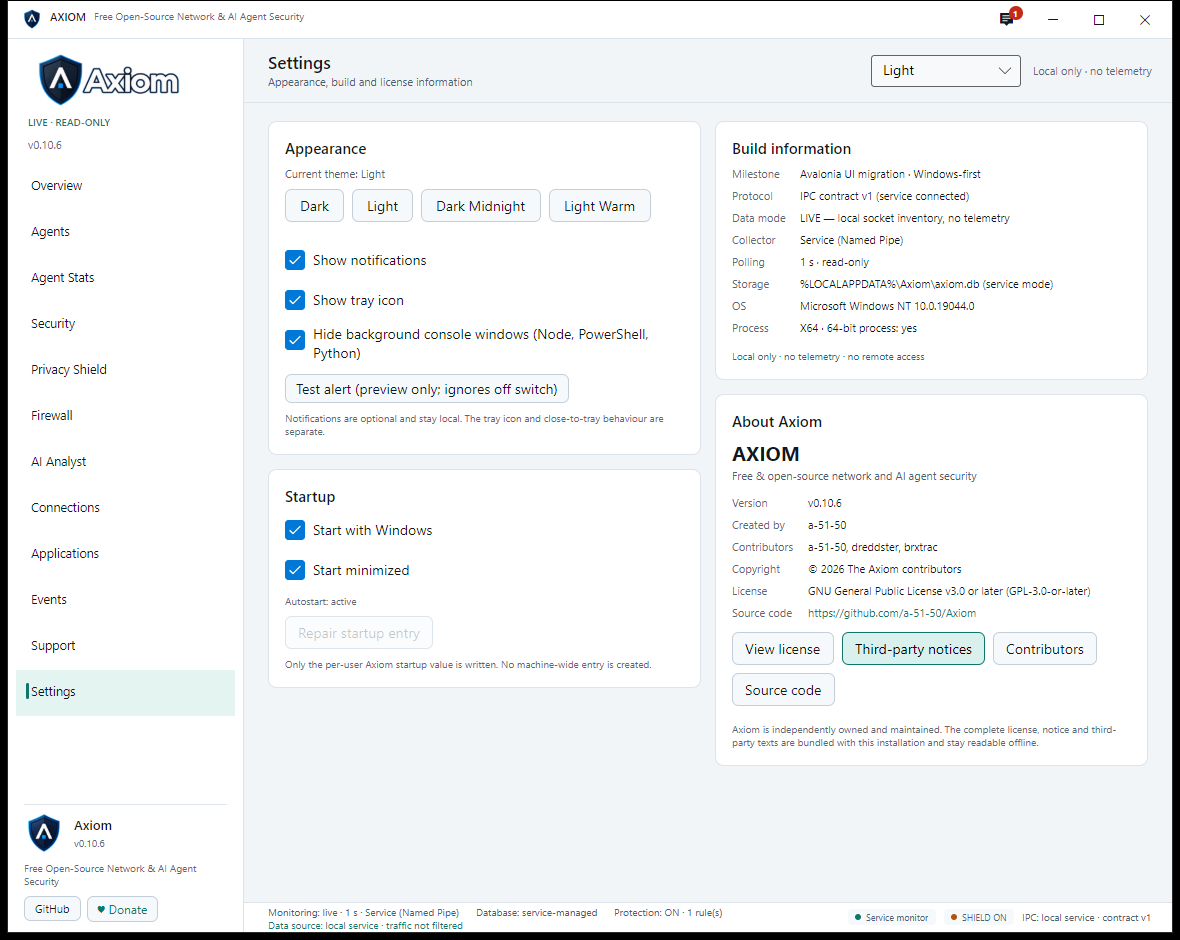
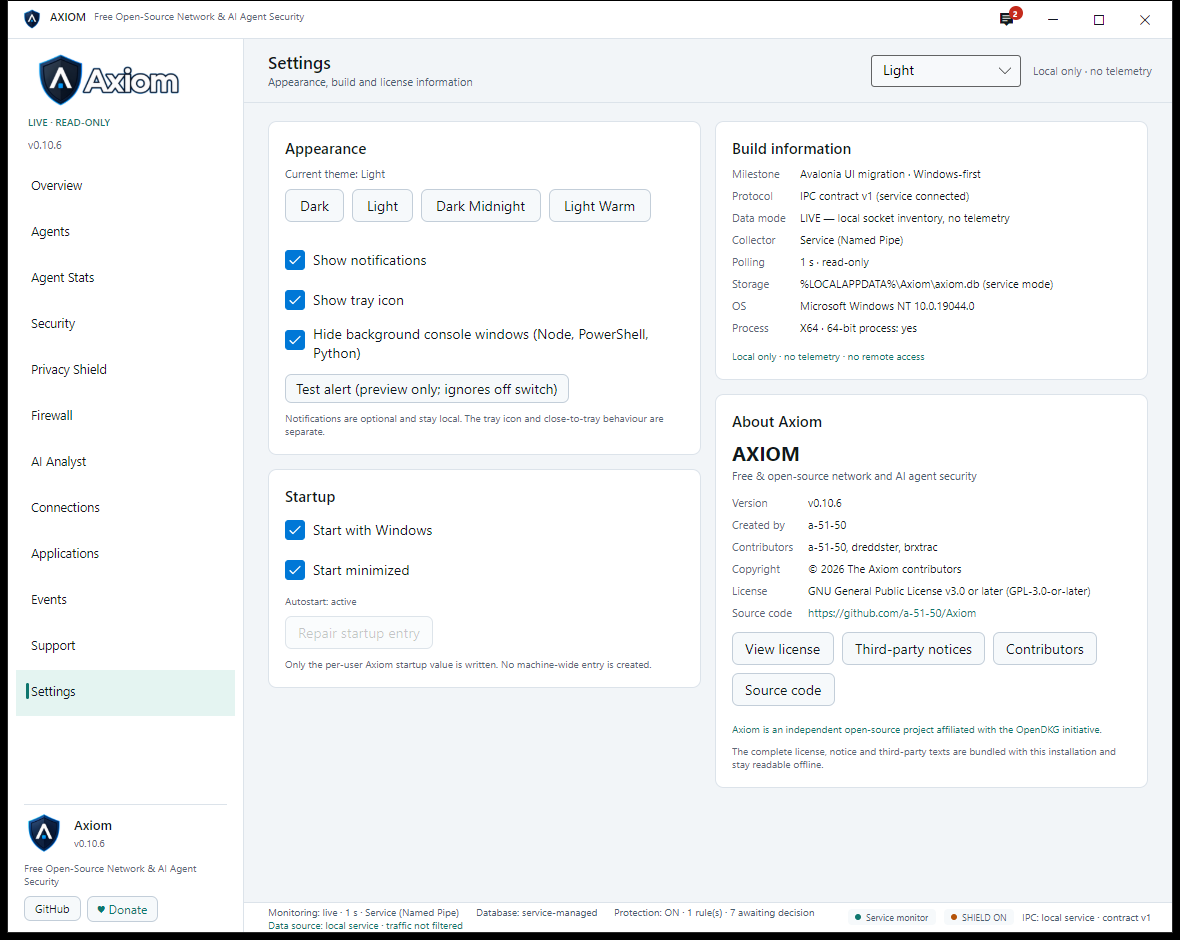
docs(about): state the approved OpenDKG affiliation without ownership claims
Axiom stays collectively copyrighted and independently owned. The About card and README
now carry the approved sentence 'Axiom is an independent open-source project affiliated
with the OpenDKG initiative'; AUTHORS.md says OpenDKG is not the legal owner, copyright
holder or publisher and transfers no rights. The creator and the two contributors stay
named, without implying shared ownership of the project.

Changed region(s): [[0.6102, 0.7713, 0.9458, 0.833], [0.7017, 0.6479, 0.8542, 0.7096], [0.6407, 0.9564, 0.6712, 0.9872]]

diff --git a/tests/Axiom.UI.Avalonia.Tests/AboutAxiomTests.cs b/tests/Axiom.UI.Avalonia.Tests/AboutAxiomTests.cs
@@ -14,6 +14,7 @@ public sealed class AboutAxiomTests
         Assert.Contains("GNU GENERAL PUBLIC LICENSE", AxiomDocuments.License, StringComparison.Ordinal);
         Assert.Contains("Copyright (C) 2026 The Axiom contributors", AxiomDocuments.Notice, StringComparison.Ordinal);
         Assert.Contains("The Axiom contributors", AxiomDocuments.Authors, StringComparison.Ordinal);
+        Assert.Contains("affiliated with the OpenDKG initiative", AxiomDocuments.Authors, StringComparison.Ordinal);
         Assert.False(string.IsNullOrWhiteSpace(AxiomDocuments.ThirdPartyNotices));
         Assert.StartsWith(AxiomDocuments.Notice, AxiomDocuments.LicenseBundle, StringComparison.Ordinal);
     }
@@ -30,6 +31,7 @@ public sealed class AboutAxiomTests
             Assert.Equal("a-51-50", page.AboutCreatedBy);
             Assert.Contains("dreddster", page.AboutContributors, StringComparison.Ordinal);
             Assert.Contains("brxtrac", page.AboutContributors, StringComparison.Ordinal);
+            Assert.Equal("Axiom is an independent open-source project affiliated with the OpenDKG initiative.", page.AboutAffiliation);
             Assert.Equal("https://github.com/a-51-50/Axiom", page.AboutSource);
             Assert.Contains("2026 The Axiom contributors", page.AboutCopyright, StringComparison.Ordinal);
         }

diff --git a/src/Axiom.UI.Avalonia/AxiomDocuments.cs b/src/Axiom.UI.Avalonia/AxiomDocuments.cs
@@ -27,6 +27,10 @@ public static class AxiomDocuments
 
     public const string ContributorsLine = "a-51-50, dreddster, brxtrac";
 
+    /// <summary>Approved affiliation wording. It states no ownership, copyright or publishing claim.</summary>
+    public const string AffiliationText =
+        "Axiom is an independent open-source project affiliated with the OpenDKG initiative.";
+
     private static readonly Lazy<string> LicenseDocument = new(() => Read("Axiom.Documents.LICENSE.txt"));
 
     private static readonly Lazy<string> NoticeDocument = new(() => Read("Axiom.Documents.NOTICE.txt"));

diff --git a/src/Axiom.UI.Avalonia/SettingsPageViewModel.cs b/src/Axiom.UI.Avalonia/SettingsPageViewModel.cs
@@ -87,6 +87,8 @@ public sealed partial class SettingsPageViewModel : PageViewModel, IDisposable
 
     public string AboutContributors => AxiomDocuments.ContributorsLine;
 
+    public string AboutAffiliation => AxiomDocuments.AffiliationText;
+
     public string AboutCopyright => AxiomDocuments.CopyrightLine;
 
     public string AboutLicense => AxiomDocuments.LicenseName;

diff --git a/AUTHORS.md b/AUTHORS.md
@@ -1,4 +1,4 @@
-# Authors and attribution
+# Authors and attribution
 
 Axiom is developed in the public repository <https://github.com/a-51-50/Axiom> and is licensed
 under **GPL-3.0-or-later** (see [`LICENSE`](LICENSE) and [`NOTICE`](NOTICE)).
@@ -30,18 +30,20 @@ wording to publish. Naming a creator does not by itself assign copyright.
 
 ## Contributors
 
-- **a-51-50**
-- **dreddster**
-- **brxtrac**
+- **a-51-50** - original creator.
+- **dreddster** - contributor.
+- **brxtrac** - contributor.
 
-The list follows the repository's Git history and collaborator record. Every contributor keeps
-attribution for their work. Being listed does not make a contributor an original creator or a
-copyright holder, and future contributors are added here without changing the creator entry.
+Contributors are credited for their work. Listing a contributor does not imply shared ownership of
+the whole project, an original-creator role or a copyright claim. Future contributors are added
+here without changing the creator entry.
 
 ## Project affiliation
 
-Axiom is independently owned and maintained. No organisational affiliation statement is published
-in this repository yet; one is added only with the project owner's approved wording.
+Axiom is an independent open-source project affiliated with the OpenDKG initiative.
+
+OpenDKG is an affiliated open-source initiative. It is not the legal owner, copyright holder or
+publisher of Axiom, and this document transfers no rights.
 
 ## Related documents
 

diff --git a/README.md b/README.md
@@ -739,6 +739,8 @@ scripts/                                # local run, service mode, standalone pu
 
 Copyright (C) 2026 The Axiom contributors.
 
+Axiom is an independent open-source project affiliated with the OpenDKG initiative.
+
 The desktop application, the Windows service and the core libraries are licensed under
 **GNU GPL v3.0 or later**. See [`LICENSE`](LICENSE) for the full text and [`NOTICE`](NOTICE) for the
 copyright and grant. Third-party components and their licenses are listed in
